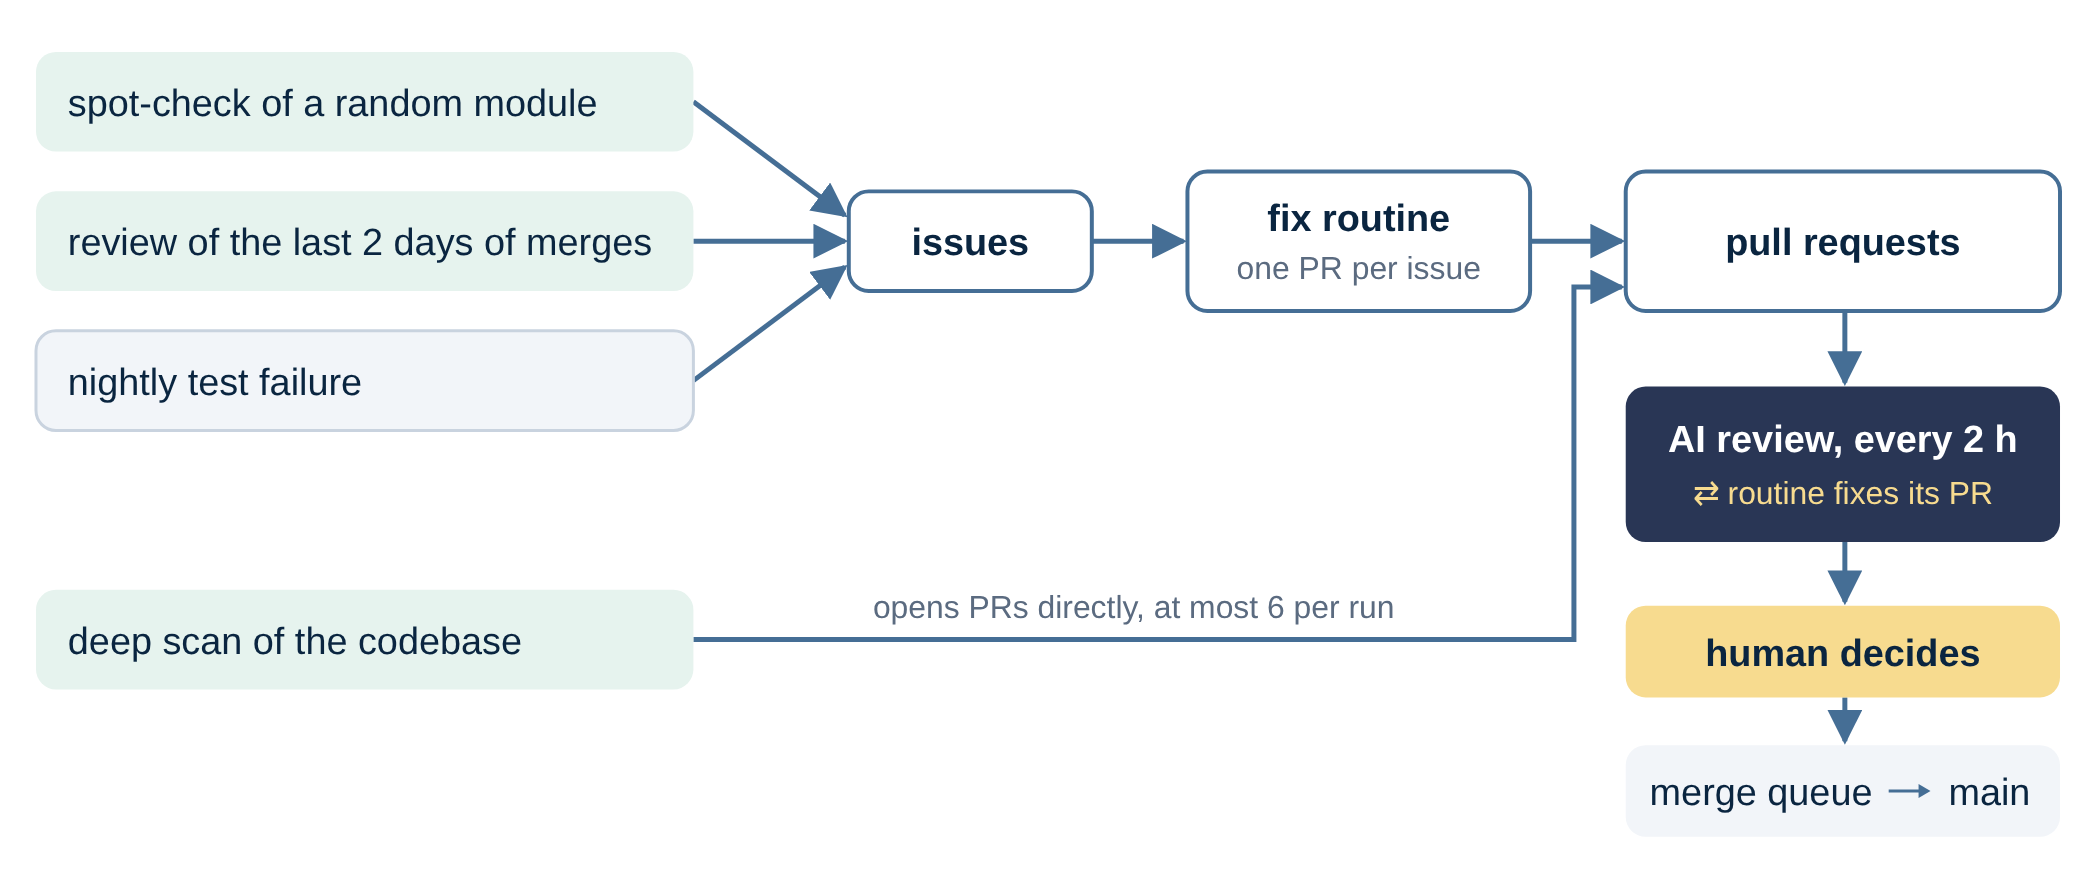
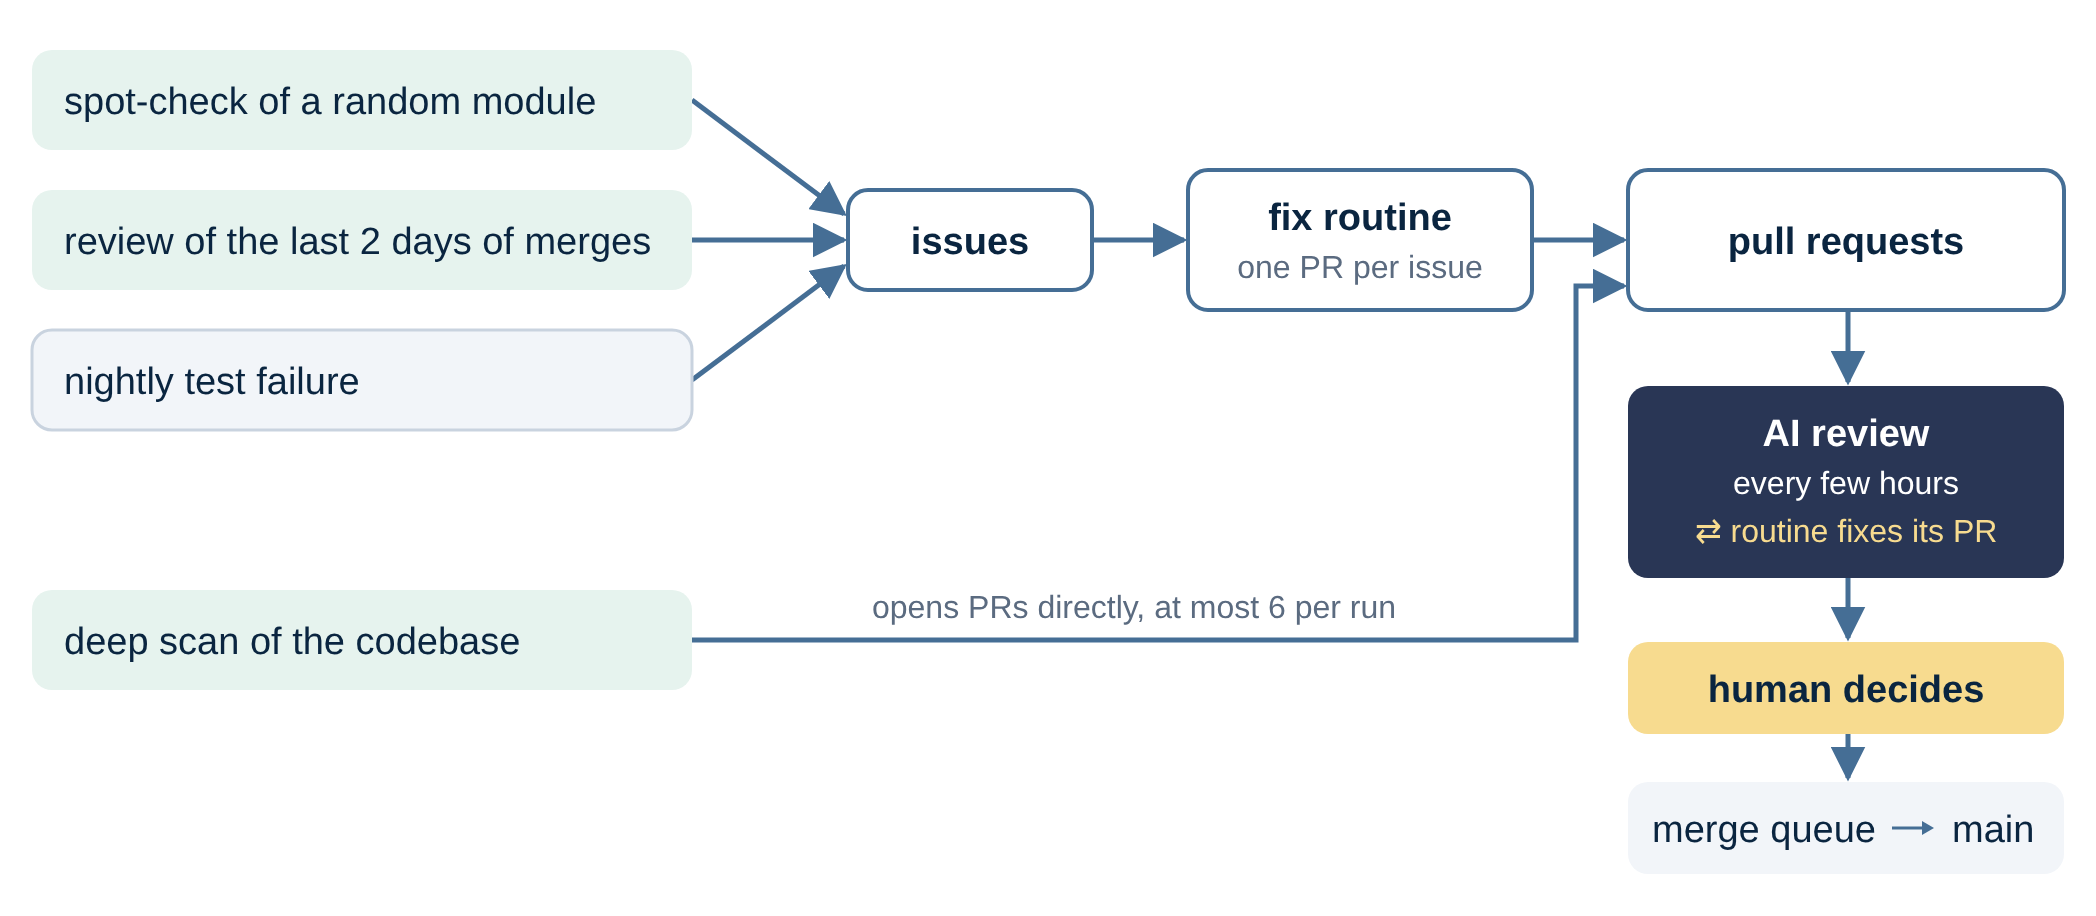
docs(blog): apply review suggestions to the agentic engineering post
Rename the post to the planned publication date, show the AI review
interval as "every few hours" in the routines diagram, and reword
passages throughout.

diff --git a/docs/blog/2026-11-11-maintaining-dora-with-agentic-engineering.md b/docs/blog/2026-11-11-maintaining-dora-with-agentic-engineering.md
@@ -4,7 +4,7 @@ Dora is a framework for robotics and AI applications. Other people use it to bui
 
 ## Why we switched to agent-written code
 
-Until early 2026, we wrote dora's code by hand. In February 2026, we started to use AI coding agents. Since May, agents write most of the code, and a single maintainer reviews and merges it.
+Until February 2026, we wrote dora's code by hand. Then we started to use AI coding agents. Since May, agents write most of the code, and a single maintainer reviews and merges it.
 
 We switched because agents let us develop much faster. This allowed us to implement features that users had requested for a long time. For example, request/reply services were first requested in December 2023 ([#390](https://github.com/dora-rs/dora/issues/390)) and are now part of dora. It also allowed us to prepare and release dora 1.0 within a few months.
 
@@ -17,7 +17,7 @@ We switched because agents let us develop much faster. This allowed us to implem
 
 *(Numbers as of 2026-10-08. The commit share counts commits with an agent co-author line, so it measures commits, not lines of code.)*
 
-With this many changes, one person can't read every line of every pull request. Instead, we use several layers of automated checks. The rest of this post describes them. It is based on a talk at [GOSIM Shenzhen 2026](https://shenzhen2026.gosim.org/).
+With this many changes, one person can't read every line of every pull request. Instead, we use several layers of automated checks, which this post describes. It is based on a talk at [GOSIM Shenzhen 2026](https://shenzhen2026.gosim.org/).
 
 ## What makes dora hard for AI agents
 
@@ -39,7 +39,7 @@ That makes dora a distributed system, so bugs are often:
 - **Platform-specific:** a test passes on Linux and fails on Windows.
 - **Between components:** each part is correct, but the combination isn't.
 
-With the latest models, AI agents are very capable. Given a clear task, even a large one, they usually get it right. However, such a distributed, multi-language, multi-OS environment is still a challenge to them.
+With the latest models, AI agents are very capable. Given a clear task, even a large one, they usually get it right. However, such a distributed, multi-language, multi-OS environment is still a challenge for them.
 
 ## Five layers of checks
 
@@ -57,9 +57,9 @@ The rest of this post goes through the above layers in detail and then describes
 
 ## The language: Rust
 
-The Rust compiler checks a lot before a program ever runs. Every value has exactly one owner, which rules out use-after-free and double-free bugs. Sharing data between threads has to be explicitly safe, which rules out data races. "There may be no value" and "this can fail" are part of the type, so they can't be ignored by accident. On top of that, we run `clippy` with hundreds of extra lint rules and treat every warning as an error.
+The Rust compiler checks a lot before a program ever runs. Every value has exactly one owner, which rules out use-after-free and double-free bugs. Sharing data between threads has to be explicitly safe, which prevents data races. "There may be no value" and "this can fail" are part of the type, so they can't be ignored by accident. On top of that, we run `clippy`, which adds several hundred lint rules, and treat every warning as an error.
 
-If the code compiles, whole classes of bugs are ruled out. Rust's error messages are also precise enough that an agent can usually fix the problem on its own: it writes code, the compiler explains what is wrong, and the agent tries again until the code compiles.
+Rust's error messages are also precise enough that an agent can usually fix the problem on its own: it writes code, the compiler explains what is wrong, and the agent tries again until the code compiles.
 
 Two simple examples show why this matters for code written by agents. The first is exhaustive matching. Say an agent adds a new way for a node to exit (the example is simplified):
 
@@ -79,7 +79,7 @@ match exit {
 
 In many languages, code that looks at the exit reason would silently ignore the new case. In Rust, the compiler lists every place in the codebase that has to handle it, so neither the agent nor the reviewer has to find them.
 
-The second is distinct types for things that look the same. dora has node IDs, operator IDs and dataflow IDs. Underneath, they are all strings, but each has its own type ([`libraries/message/src/id.rs`](../../libraries/message/src/id.rs)):
+The second is distinct types for things that look the same. Dora has node IDs, operator IDs and dataflow IDs. Underneath, they are all strings, but each has its own type ([`libraries/message/src/id.rs`](../../libraries/message/src/id.rs)):
 
 ```rust
 struct NodeId(String);
@@ -94,7 +94,7 @@ When a rule matters, we try to encode it in the types, because then it is enforc
 
 ## The architecture
 
-dora is split into a few components, each with one job. The command-line tool talks to a coordinator, the coordinator manages one daemon per machine, and the daemons start your nodes and move data between them.
+Dora is split into a few components, each with one job. The command-line tool talks to a coordinator, the coordinator manages one daemon per machine, and the daemons start your nodes and move data between them.
 
 ![The CLI talks to the coordinator, which manages one daemon per machine; the daemons start your nodes and move data between them](images/agentic-engineering/architecture.png)
 
@@ -108,7 +108,7 @@ Because Rust is a compiled language that can be linked efficiently with the othe
 
 ## The test suite
 
-The test suite is the layer that actually checks most of the code. Dora has about 2,750 tests:
+The test suite is the layer that actually checks most of the code. Dora has about 2,800 tests:
 
 | Tests | Count | Example |
 |---|---|---|
@@ -132,7 +132,7 @@ So we decided to split our test suite into multiple tiers:
 
 ### A merge queue with batching
 
-Even the Linux run before a merge takes about 40 minutes, so we use a merge queue that batches pull requests.
+The pre-merge run still takes about 40 minutes, so we use a merge queue that batches pull requests.
 
 ![Approved PRs go into a queue; batches of up to 8 are tested together and merged; a failing batch is split to find and remove the culprit](images/agentic-engineering/merge-queue.png)
 
@@ -203,9 +203,9 @@ So it's important to set a clear rule: **a regression test must fail on main wit
 
 ### Mutation testing
 
-Mutation testing is an interesting technique that applies that rule to every line. A tool introduces small bugs on purpose, such as turning `a + b` into `a - b`, `>=` into `>`, or returning an empty list instead of the real one, and runs the tests after each change. If no test fails, that code isn't really tested.
+[Mutation testing](https://en.wikipedia.org/wiki/Mutation_testing) is a technique that applies that rule to every line. A tool introduces small bugs on purpose, such as turning `a + b` into `a - b`, `>=` into `>`, or returning an empty list instead of the real one, and runs the tests after each change. If no test fails, that code isn't really tested.
 
-However, it is slow: a full run over our core crates takes 10 to 18 hours. So it is not automated. We run it manually from time to time to improve the tests of one part of the code. The first run on the core library raised the share of caught mutations from 37% to 43% with 22 new tests, so our tests still miss many of these small bugs, and there is a lot left to improve.
+However, it is slow: a full run over our core crates takes 10 to 18 hours. So it is not automated. We run it manually from time to time to improve the tests of one part of the code. After the first run on the core library, we added 22 tests, which raised the share of caught mutations from 37% to 43%. That means more than half of these small bugs still go unnoticed, so there is a lot left to improve.
 
 ## AI reviews
 
@@ -228,9 +228,9 @@ These are some of the instructions in its prompt:
 >
 > *Don't post a comment at all when there are no new findings since the last review comment.*
 
-We added the first instruction because an agent that wrote the code also wrote the description, and the description says what the agent intended, which isn't always what the code does. The last instruction keeps the noise down: a bot that comments every two hours, even with nothing new to say, would bury every pull request in comments.
+We added the first instruction because the agent that wrote the code usually also wrote the description, and the description says what the agent intended, which isn't always what the code does. The last instruction keeps the noise down: a bot that comments after every run, even with nothing new to say, would bury every pull request in comments.
 
-We checked how well it works on the roughly 960 pull requests it reviewed between June and early October, with hand-checked samples:
+To see how well it works, we checked a sample of its findings by hand, from the roughly 960 pull requests it reviewed between June and early October:
 
 - **Most findings are correct**. About 4% were clearly wrong, and about 15% if you also count real problems that it described as more serious than they were.
 - **A review without findings doesn't mean much**. In about one in four pull requests, something real was found later, usually something minor and usually by a later review before the merge.
@@ -244,11 +244,11 @@ The layers discussed so far react to changes. This layer includes routines that 
 
 ![Spot-checks, merge reviews and nightly failures file issues; a fix routine turns issues into PRs; the deep scan opens PRs directly; all PRs get AI reviews, then a human decides and the merge queue merges](images/agentic-engineering/routines.png)
 
-Two routines look for problems and file issues, and nightly test failures become issues automatically. A deep scan opens pull requests directly. We explain those below.
+A spot-check of a random module and a review of recent merges look for problems and file issues, and nightly test failures become issues automatically. A deep scan opens pull requests directly. We explain these routines below.
 
 A fix routine tries to turn each issue into a pull request. It is allowed to give up: if it can't fix something, or the issue needs a human decision, it leaves a comment instead.
 
-All of these pull requests then go through the AI review and the routine that opened them keeps fixing them. This often takes multiple rounds. Only then a human takes a look and makes the merge decision (which then goes through the merge queue).
+All of these pull requests then go through the AI review and the routine that opened them keeps fixing them. This often takes multiple rounds. Only then does a human look at the pull request and decide whether to merge it. The merge itself goes through the merge queue.
 
 Let's take a closer look at some of these routines:
 
@@ -258,7 +258,7 @@ Let's take a closer look at some of these routines:
 
 Every other review looks at what changed, but many bugs live in code that hasn't changed in months. Random sampling makes sure every part of the codebase gets looked at eventually.
 
-Two examples for bugs found by the spot checks in older code:
+Two examples of bugs that the spot-check found in older code:
 
 - `dora logs --node cam` also showed the logs of a node called `cam.left`, because it matched every log file starting with `log_cam` ([#3449](https://github.com/dora-rs/dora/issues/3449)).
 - A dataflow with two nodes of the same name was accepted, and one of the two nodes was silently dropped instead of reporting an error. A check for duplicate names existed, but only in one code path ([#2393](https://github.com/dora-rs/dora/issues/2393)).
@@ -305,19 +305,17 @@ The routines also catch each other's mistakes. One example:
 
 *(Times in UTC: the deep scan's pull request [#3593](https://github.com/dora-rs/dora/pull/3593), the merge review's issue [#3604](https://github.com/dora-rs/dora/issues/3604), and the fix [#3609](https://github.com/dora-rs/dora/pull/3609).)*
 
-All tests passed on the first change because CI runs on 64-bit machines. The merge review noticed that dora is also built for 32-bit ARM boards, which are common on robots. The bug was fixed about 29 hours after it was merged.
+The deep scan had replaced a duplicated size parser with an existing shared one. The shared parser uses a type that can only hold values up to 4 GB on 32-bit systems, so log size limits of 4 GB or more were suddenly rejected there. All tests passed because CI runs on 64-bit machines. The merge review noticed that dora is also built for 32-bit ARM boards, which are common on robots. The bug was fixed about 29 hours after it was merged.
 
 ## The road to dora 1.0
 
 ![Release timeline: v0.5.0 in March 2026, five release candidates from April to August 27, v1.0.0 on September 2, v1.0.1 on September 3, v1.1.0 on October 7](images/agentic-engineering/releases.png)
 
-dora 1.0 was released on September 2, after five release candidates.
-
 For dora, 1.0 is mainly a stability guarantee: code and configs you write against 1.0 keep working for all of 1.x. That is a hard promise to keep when hundreds of changes land every month.
 
-The 1.0 release is where most of the AI-generated code was published, so this was only possible because the discussed layers of checks gave us confidence in the code.
+Most of the agent-written code first reached users in 1.0. We could only make this promise because the checks described above gave us confidence in that code.
 
-In the following, we will focus on the automatic checks and some key decisions for the 1.0 release. For full details, see our [1.0 announcement](2026-09-02-dora-1.0.md) post.
+This section focuses on the automatic checks and some key decisions for the 1.0 release. For the full details, see the [1.0 announcement](2026-09-02-dora-1.0.md).
 
 ### What we promise in 1.0, and how we check it
 
@@ -340,11 +338,11 @@ To make sure that no agent breaks this promise by accident, every stable surface
 
 If an agent renames a flag or removes a field, the build fails and says what broke. Whether the break is intended, and has to wait for 2.0, is a human decision.
 
-These automated changes are very useful to us, but they are only best-effort. Not every breaking change is detected by them, so human review is still needed here.
+These automated checks are very useful to us, but they are only best-effort. They don't catch every breaking change, so human review is still needed here.
 
 ### Breaking changes before 1.0
 
-We decided to deliberately do a few breaking changes before releasing 1.0:
+Before releasing 1.0, we made a few breaking changes on purpose:
 
 - **We changed the message encoding.** The old library that we used was unmaintained and had no written specification of its format.
 - **We made message types extensible**, so they can get new fields in 1.x without a 2.0.
@@ -354,13 +352,13 @@ We made sure that each of those breaks produces a clear error message instead of
 
 ### How we decided 1.0 was ready
 
-A project like dora will never be perfect, bug-free, or finished. So we made the decision that Dora is ready for 1.0 based on the following:
+A project like dora will never be perfect, bug-free, or finished. So we based the decision on the following criteria:
 
-- We published five release candidates and no open critical bugs were known.
-- 11 nightly CI runs in a row with all jobs green (and many more with only flaky test failures before).
-- We did a lot of preparation work for ensuring backwards and forwards compatibility.
+- We published five release candidates, and no critical bugs were open.
+- The nightly CI passed 11 times in a row with all jobs green. Before that, many runs failed only because of flaky tests.
+- We did a lot of work to ensure backward and forward compatibility.
 - A benchmark against 0.5 showed 7–39% lower median latency at every message size.
-- We created a [migration guide](../migration-from-0.x.md) for users of 0.x.
+- We wrote a [migration guide](../migration-from-0.x.md) for users of 0.x.
 
 Based on this, we made the 1.0 release on September 2.
 
@@ -368,11 +366,11 @@ Based on this, we made the 1.0 release on September 2.
 
 ### And then 1.0.1, the next day
 
-And of course we directly discovered a bug the next day that we didn't catch before: [building from source with `cargo install dora-cli` failed](https://github.com/dora-rs/dora/issues/3400). Building from source through our GitHub repo still worked and the pre-built binaries worked as well, so the issue was not affecting many people fortunately.
+The very next day, we found a bug that none of our checks had caught: [building from source with `cargo install dora-cli` failed](https://github.com/dora-rs/dora/issues/3400). Building from a clone of the repository and the prebuilt binaries still worked, so fortunately few people were affected.
 
-The problem was that one of Dora's packages read a file from a neighboring folder in the repository. In the repository, that folder exists, so every build and test passed. However, a published package on `crates.io` only contains its own files, so the published version couldn't find it.
+The problem was that one of dora's packages read a file from a neighboring folder in the repository. In the repository, that folder exists, so every build and test passed. However, a published package on `crates.io` only contains its own files, so the published version couldn't find it.
 
-We quickly [fixed this](https://github.com/dora-rs/dora/pull/3401) and released 1.0.1. Of course, we added an automated check so that this type of bug cannot happen again.
+We quickly [fixed this](https://github.com/dora-rs/dora/pull/3401) and released 1.0.1. For historical reasons, our release process skipped cargo's own check of the published packages, so we turned that check on. We also added an automated check on every pull request, so that this type of bug cannot happen again.
 
 ## What the human does
 
@@ -382,9 +380,9 @@ With this setup, the maintainer's work is different from before, but there is st
 - Writing and reviewing the plans for big features before any code is written.
 - Reading high-risk changes carefully, like anything that touches the message format or a public API, and skimming low-risk ones.
 - Checking the approach. Agents don't always pick the right one: a fix can be hacky, more complicated than it needs to be, or make a symptom go away instead of fixing the cause, and still pass every check.
-- Deciding when not to fix something (some 'bugs' can never happen in practice).
+- Deciding when not to fix something, for example a reported bug that can't happen in practice.
 
-Every merge in Dora is still a human decision.
+Every merge in dora is still a human decision.
 
 ## Conclusion
 
